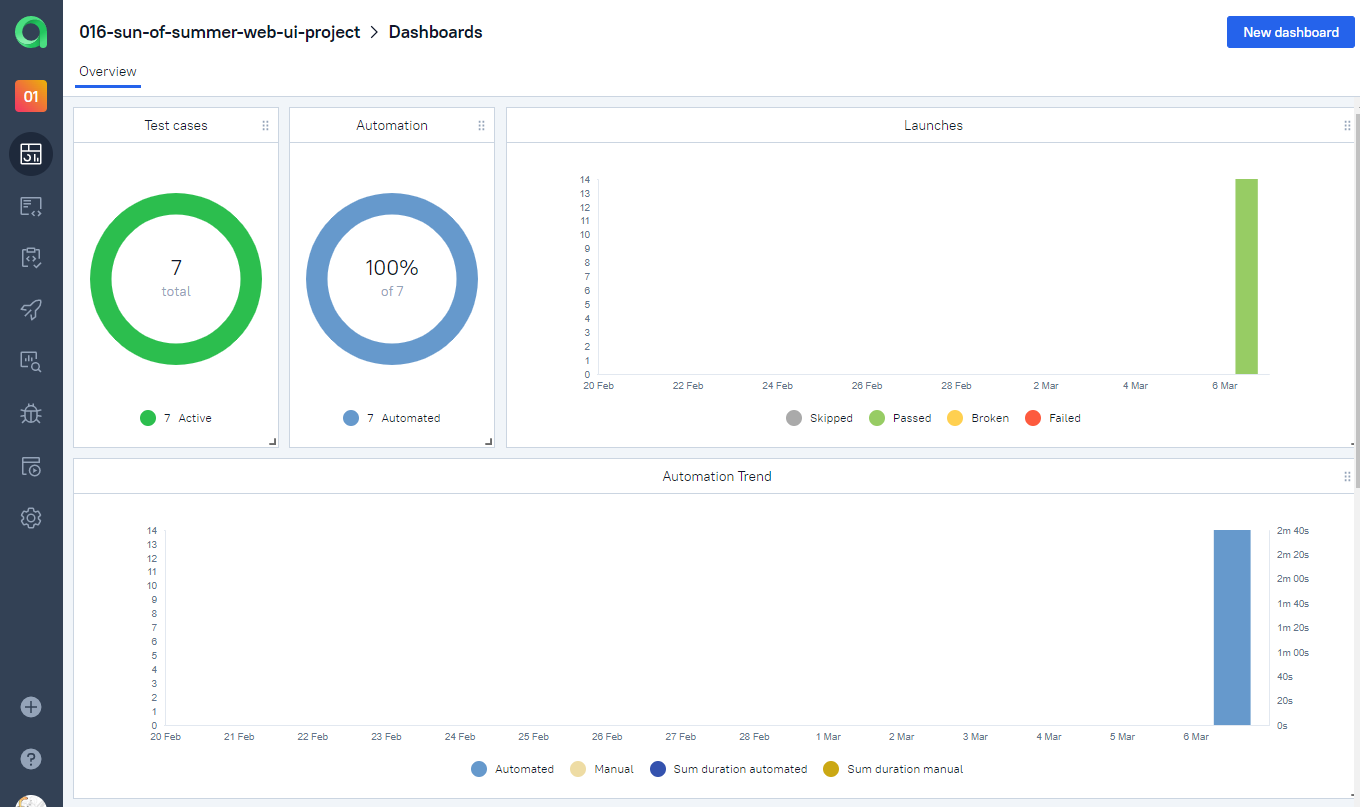
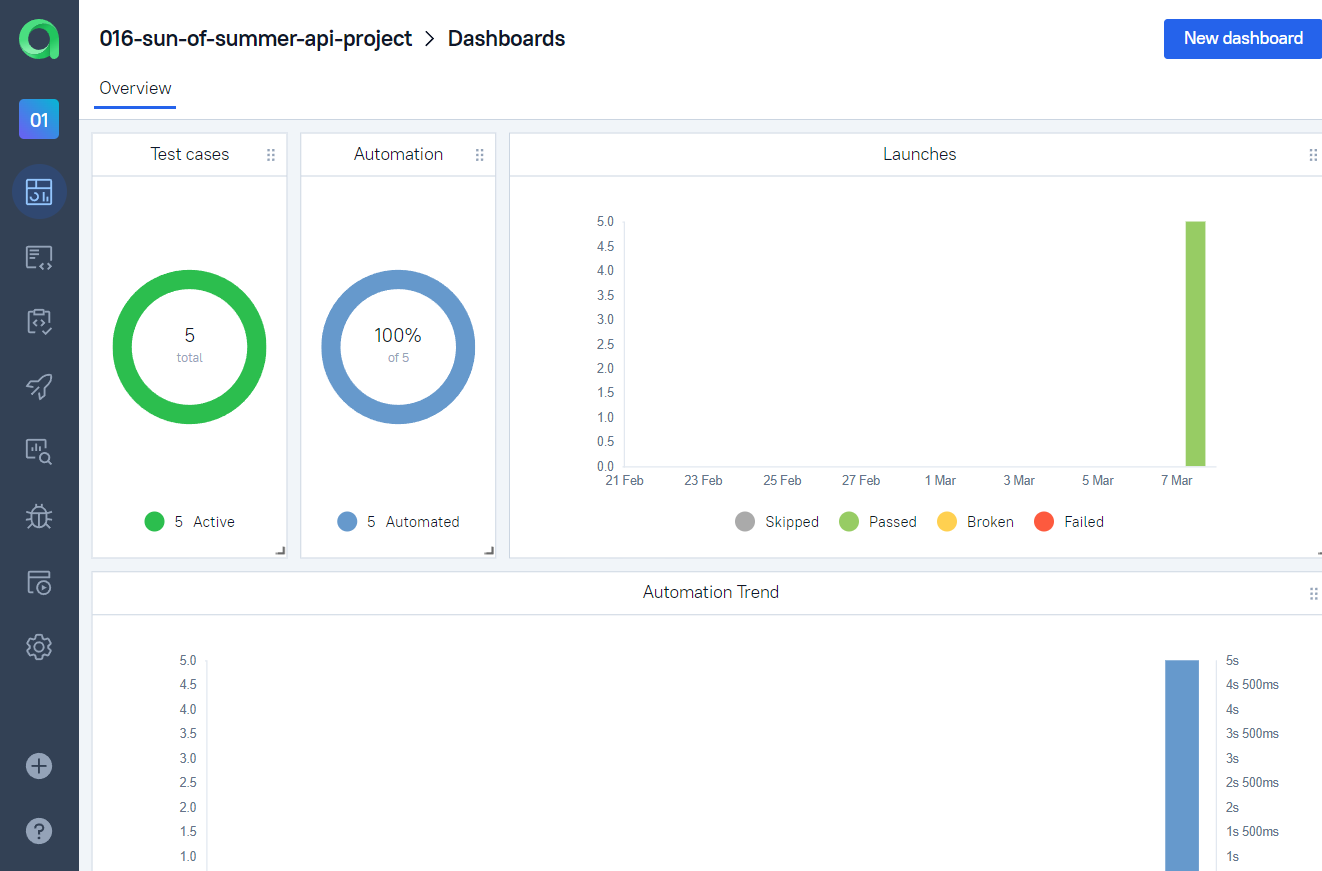
ready

diff --git a/src/test/java/helpers/CustomApiListener.java b/src/test/java/helpers/CustomApiListener.java
@@ -2,11 +2,10 @@ package helpers;
 
 import io.qameta.allure.restassured.AllureRestAssured;
 
-
 public class CustomApiListener {
     private static final AllureRestAssured FILTER = new AllureRestAssured();
 
-    public static AllureRestAssured withCustomTemplates(){
+    public static AllureRestAssured withCustomTemplates() {
         FILTER.setRequestTemplate("request.ftl");
         FILTER.setResponseTemplate("response.ftl");
 

diff --git a/src/test/java/specs/UserNotFoundRequestSpec.java b/src/test/java/specs/UserNotFoundRequestSpec.java
@@ -1,7 +1,6 @@
 package specs;
 
 import io.restassured.specification.RequestSpecification;
-
 import static helpers.CustomApiListener.withCustomTemplates;
 import static io.restassured.RestAssured.with;
 
@@ -11,5 +10,4 @@ public class UserNotFoundRequestSpec {
             .filter(withCustomTemplates())
             .basePath("api/users/23")
             .log().uri();
-
 }

diff --git a/src/test/java/tests/UsersSearchTests.java b/src/test/java/tests/UsersSearchTests.java
@@ -7,7 +7,6 @@ import models.UsersOnPageResponseModel;
 import org.junit.jupiter.api.BeforeEach;
 import org.junit.jupiter.api.DisplayName;
 import org.junit.jupiter.api.Test;
-
 import static io.restassured.RestAssured.given;
 import static org.assertj.core.api.Assertions.assertThat;
 import static specs.UsersOnPageRequestSpec.usersOnPageRequestSpec;

diff --git a/src/test/java/tests/LoginTests.java b/src/test/java/tests/LoginTests.java
@@ -8,7 +8,6 @@ import models.RegisterResponseModel;
 import org.junit.jupiter.api.BeforeEach;
 import org.junit.jupiter.api.DisplayName;
 import org.junit.jupiter.api.Test;
-
 import static io.restassured.RestAssured.given;
 import static org.assertj.core.api.Assertions.assertThat;
 import static specs.RegisterRequestSpecs.registerRequestSpec;

diff --git a/src/test/java/specs/RegisterResponseSpecs.java b/src/test/java/specs/RegisterResponseSpecs.java
@@ -2,7 +2,6 @@ package specs;
 
 import io.restassured.builder.ResponseSpecBuilder;
 import io.restassured.specification.ResponseSpecification;
-
 import static io.restassured.filter.log.LogDetail.BODY;
 import static io.restassured.filter.log.LogDetail.STATUS;
 import static org.hamcrest.Matchers.notNullValue;

diff --git a/src/test/java/specs/UserNotFoundResponseSpec.java b/src/test/java/specs/UserNotFoundResponseSpec.java
@@ -2,7 +2,6 @@ package specs;
 
 import io.restassured.builder.ResponseSpecBuilder;
 import io.restassured.specification.ResponseSpecification;
-
 import static io.restassured.filter.log.LogDetail.BODY;
 import static io.restassured.filter.log.LogDetail.STATUS;
 

diff --git a/src/test/java/specs/UsersOnPageResponseSpec.java b/src/test/java/specs/UsersOnPageResponseSpec.java
@@ -2,7 +2,6 @@ package specs;
 
 import io.restassured.builder.ResponseSpecBuilder;
 import io.restassured.specification.ResponseSpecification;
-
 import static io.restassured.filter.log.LogDetail.BODY;
 import static io.restassured.filter.log.LogDetail.STATUS;
 

diff --git a/src/test/java/specs/RegisterRequestSpecs.java b/src/test/java/specs/RegisterRequestSpecs.java
@@ -1,7 +1,6 @@
 package specs;
 
 import io.restassured.specification.RequestSpecification;
-
 import static helpers.CustomApiListener.withCustomTemplates;
 import static io.restassured.RestAssured.with;
 import static io.restassured.http.ContentType.JSON;

diff --git a/src/test/java/specs/UsersOnPageRequestSpec.java b/src/test/java/specs/UsersOnPageRequestSpec.java
@@ -1,7 +1,6 @@
 package specs;
 
 import io.restassured.specification.RequestSpecification;
-
 import static helpers.CustomApiListener.withCustomTemplates;
 import static io.restassured.RestAssured.with;
 

diff --git a/src/test/java/models/UsersOnPageResponseModel.java b/src/test/java/models/UsersOnPageResponseModel.java
@@ -8,6 +8,4 @@ import lombok.Data;
 public class UsersOnPageResponseModel {
 
     private int per_page;
-
-
 }

diff --git a/README.md b/README.md
@@ -15,7 +15,7 @@ ________
 1. проверка работы с пользователями
 2. проверка работа функционала регистрации
 
-### <img src="images/logo/Jenkins.svg" width="40" height="40"/> Сборка для запуска тестов в [Jenkins](https://jenkins.autotests.cloud/job/016-sun_of_summer-Homework-quickproject/build?delay=0sec) 
+### <img src="images/logo/Jenkins.svg" width="40" height="40"/> Сборка для запуска тестов в [Jenkins](https://jenkins.autotests.cloud/job/016-sun_of_summer-Homework-api-final/) 
 
 <img src="images/screenshots/jenkins_job.png" width="80%" height="80%"/>  
 
@@ -27,9 +27,7 @@ ________
 
 ### <img src="images/logo/Allure_TestOps.svg" width="50" height="50"/> Интеграция с [Allure TestOps](https://allure.autotests.cloud/project/1970/dashboards)
 
-<img src="images/screenshots/testops-dashboard.PNG" width="80%" height="80%"/> 
-
-<img src="images/screenshots/testops-testcases.PNG" width="80%" height="80%"/>
+<img src="images/screenshots/testops-dashboard.PNG" width="80%" height="80%"/>
 
 ### <img src="images/logo/Telegram.svg" width="30" height="30"/> Уведомления о прохождении тестов в Telegram  
 
